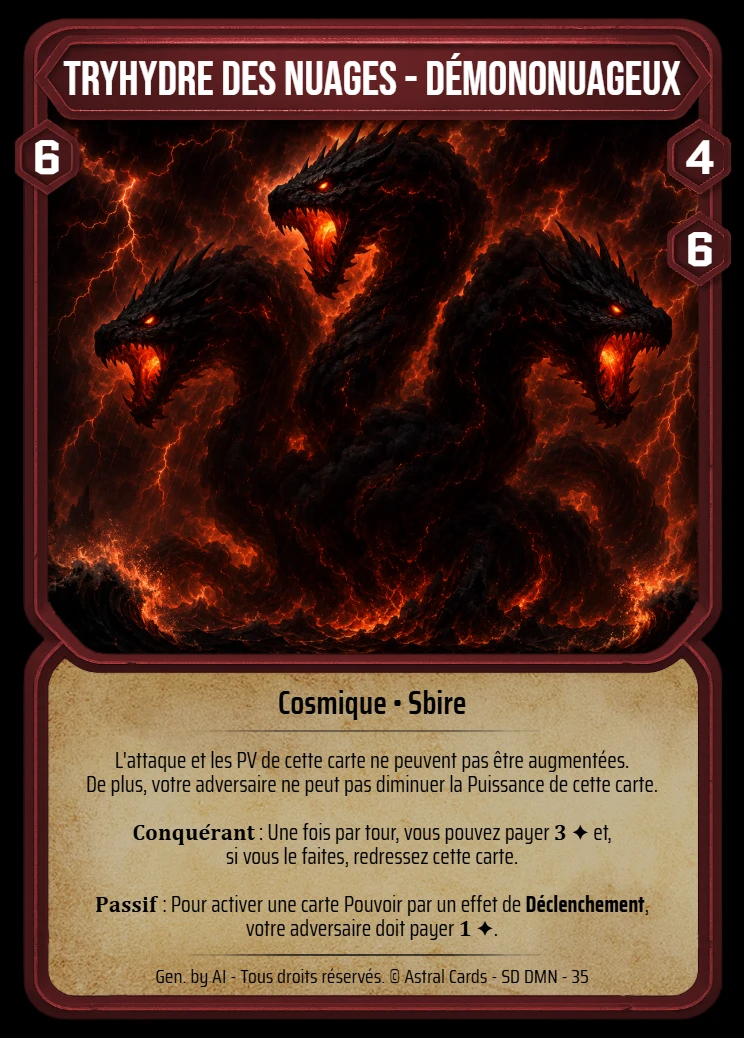
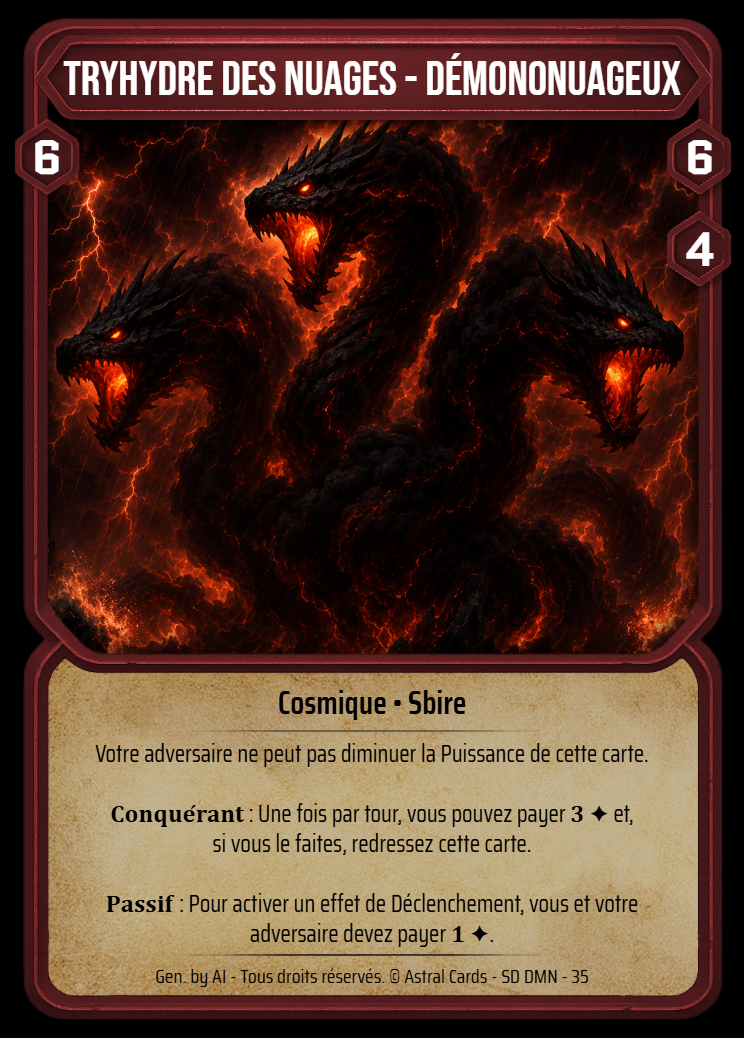
Update tutoriel 3

diff --git a/tutoriel-engine.js b/tutoriel-engine.js
@@ -6,7 +6,7 @@
     dragon:'Dragon brumeux', cyclone:'Le cyclone', storm:'Démon des tempêtes', eye:"L'oeil protecteur",
     hand:'La grande main', rox:'Roxxor', nav:'Zvatas forme 1', env:'Cataclysme des nuages',
     pillage:'Pillage bénéfique', urkan:'Urkan', vairon:'Vairon', sovereign:'Vairon souverrain',
-    assimilation:'Assimilation des Energies', env2:'Le domaine sauvage', larva:'La larve', wolf:"Wollfy de l'épée", swordEye:"L'oeil de l'épée", light:'La lumière après les nuages', dompteur:'Dompteur', elphoros:'Elphoros'
+    assimilation:'Assimilation des Energies', env2:'Le domaine sauvage', larva:'La larve', wolf:"Wollfy de l'épée", swordEye:"L'oeil de l'épée", light:'La lumière après les nuages', dompteur:'Dompteur', elphoros:'Elphoros', small:'Du plus petit au plus monstrueux', rakesh:"Ra'Kesh", immunity:"L'immunité bestiale", tryhydre:'Tryhydre'
   };
   const clone = value => JSON.parse(JSON.stringify(value));
   const player = () => ({energy:0,max:0,stars:0,actions:0,hand:[],zones:{},deck:false});
@@ -112,14 +112,14 @@
     // Situation de départ du chapitre 2.
     p(1).energy=2;p(1).max=2;p(1).stars=0;p(1).actions=0;p(1).deck=true;
     draw(1,[C.light,C.hand,C.dragon]);
-    put(1,6,C.nav,{hp:5,clouds:0});
+    put(1,6,C.nav,{power:1,hp:5,clouds:0});
     put(1,6,C.env,{back:true});
     // Le sommet de la pile est La larve afin que le clic sur la pile soit guidé sans afficher les zones techniques.
     put(1,1,C.wolf,{back:true,tapped:true});put(1,1,C.swordEye,{back:true,tapped:true});put(1,1,C.larva,{back:true,tapped:true});
-    put(1,7,C.sea,{tapped:true});
+    put(1,7,C.sea,{power:1,hp:1,tapped:true});
 
     p(2).energy=3;p(2).max=3;p(2).stars=0;p(2).actions=0;p(2).deck=true;
-    put(2,6,C.dompteur,{hp:5});
+    put(2,6,C.dompteur,{power:1,hp:5});
     put(2,2,C.env2,{tapped:true});
     put(2,5,C.elphoros,{hp:3,tapped:true});
 
@@ -132,15 +132,15 @@
     step('Votre Navigateur est révélé', 'Votre Environnement rejoint son emplacement dédié et votre Navigateur apparaît. En général, un Navigateur possède 1 point de Puissance, 5 PV et une seconde face destinée au mode Astral, que nous verrons plus tard.', {focus:C.nav},()=>{move(1,C.env,2,{tapped:true});const nav=find(1,C.nav);if(nav){nav.clouds=3;nav.hp=5;}});
     step('Ses compteurs', 'Lorsqu’il est révélé, placez 3 compteurs Nuage sur votre Navigateur. Son effet pourra en retirer un lorsqu’un Sbire Démononuageux est invoqué afin de le redresser immédiatement. Cet effet ne peut être utilisé qu’une fois par tour, et la carte ainsi redressée ne pourra plus être redressée par un autre effet ce tour-ci.', {focus:C.nav});
     step('Invoquez un Sbire', 'Cliquez sur le Sbire illuminé dans votre Main pour l’invoquer. Il utilise toute votre Energy disponible.', {target:{player:1,name:C.dragon,location:'hand'},action:'Invoquer le Sbire'});
-    step('Activez l’effet du Navigateur', 'Le Sbire arrive incliné sur votre Terrain. Cliquez maintenant sur votre Navigateur pour utiliser son effet.', {target:{player:1,name:C.nav,location:'board'},action:'Activer son effet'},()=>{move(1,C.dragon,8,{tapped:true,hp:3});p(1).energy=0;p(1).actions=1;});
+    step('Activez l’effet du Navigateur', 'Le Sbire arrive incliné sur votre Terrain. Cliquez maintenant sur votre Navigateur pour utiliser son effet.', {target:{player:1,name:C.nav,location:'board'},action:'Activer son effet'},()=>{move(1,C.dragon,8,{tapped:true,power:2,hp:5});p(1).energy=0;p(1).actions=1;});
     step('Effet résolu', 'Un compteur est retiré et le Sbire invoqué se redresse automatiquement. Il est désormais prêt au combat.', {},()=>{const nav=find(1,C.nav);if(nav)nav.clouds=2;const d=find(1,C.dragon);if(d)d.tapped=false;});
     step('L’effet de votre Environnement', 'Votre Environnement possède lui aussi un effet passif. Lorsqu’un de vos Sbires Démononuageux est redressé par un effet, vous pouvez augmenter ses PV de 1. S’il possède déjà 4 PV ou plus, vous pouvez lui donner 1 point de Puissance à la place.', {focus:C.env});
-    step('Un PV supplémentaire', 'Le Sbire que vous venez de redresser possède 3 PV. L’effet passif de votre Environnement s’applique : il gagne donc 1 PV et passe à 4 PV.', {focus:C.dragon},()=>{const d=find(1,C.dragon);if(d)d.hp=4;});
+    step('Choisissez le bonus du Dragon brumeux', 'Le Dragon brumeux possède 2 de Puissance et 5 PV de base. Comme il possède déjà 4 PV ou plus, Cataclysme des nuages vous laisse choisir : augmentez sa Puissance de 1 ou ses PV de 1.', {focus:C.dragon,statChoice:true});
     step('Attaques du Navigateur', 'Un Navigateur peut attaquer. S’il détruit un Sbire au combat, il génère 1 étoile, comme vos Sbires. Si le Terrain adverse est vide, il ne peut pas attaquer directement le Navigateur adverse ; il peut toutefois s’incliner pour générer 1 étoile.');
     step('Votre dernière action principale', 'Jouez la carte illuminée. Son effet va vous permettre d’invoquer une carte depuis votre Deck Spécial.', {target:{player:1,name:C.hand,location:'hand'},action:'Jouer la carte'});
     step('Choisissez dans votre Deck Spécial', 'Cliquez sur votre pile de cartes Spéciales illuminée pour voir les cartes disponibles.', {target:{player:1,name:C.larva,location:'board'},action:'Ouvrir le Deck Spécial'},()=>{remove(1,C.hand);p(1).actions=2;});
     step('Choisissez la carte à invoquer', 'Les cartes disponibles s’affichent. Cliquez sur la carte illuminée pour l’invoquer grâce à l’effet.', {target:{player:1,name:C.larva,location:'revealed'},action:'Invoquer cette carte',reveal:true},()=>{state.revealed=[C.larva,C.swordEye,C.wolf];});
-    step('Invocation spéciale', 'Un Sbire invoqué grâce à un effet est une invocation spéciale : vous ne payez pas son coût d’Energy et il arrive verticalement, prêt au combat, sauf si l’effet indique le contraire.', {},()=>{state.revealed=[];remove(1,C.larva);put(1,5,C.larva);});
+    step('Invocation spéciale', 'Un Sbire invoqué grâce à un effet est une invocation spéciale : vous ne payez pas son coût d’Energy et il arrive verticalement, prêt au combat, sauf si l’effet indique le contraire.', {},()=>{state.revealed=[];remove(1,C.larva);put(1,5,C.larva,{power:1,hp:2});});
     step('Passez à l’attaque', 'Commencez par attaquer le Sbire adverse avec votre premier attaquant. Cliquez sur votre carte illuminée.', {target:{player:1,name:C.dragon,location:'board'},action:'Attaquer'});
     step('Choisissez la cible', 'Votre attaquant est incliné. Cliquez maintenant sur le Sbire adverse pour le prendre pour cible.', {target:{player:2,name:C.elphoros,location:'board'},action:'Cibler le Sbire'},()=>{const d=find(1,C.dragon);if(d)d.tapped=true;});
     step('Dégâts infligés', 'Votre attaquant possède 2 de Puissance. Les dégâts sont soustraits aux PV : le Sbire adverse n’a plus qu’1 PV.', {},()=>{const e=find(2,C.elphoros);if(e)e.hp=1;});
@@ -153,8 +153,60 @@
     step('Chapitre 2 terminé', 'Bravo ! Vous savez maintenant exploiter l’effet de votre Navigateur, l’utiliser au combat et combiner ses possibilités avec vos invocations.', {complete:true});
     return steps;
   }
-  function build(chapter=1){ return Number(chapter)===2 ? buildChapter2() : buildChapter1(); }
-  const api={build,buildChapter1,buildChapter2,C};
+  function buildChapter3() {
+    let state = {turn:5,active:1,phase:'Phase de jeu',players:{1:player(),2:player()},revealed:[]};
+    const steps=[];
+    const p = n => state.players[n];
+    function put(n,z,name,options={}) { (p(n).zones[z] ||= []).push({name,back:false,tapped:false,...options}); }
+    function find(n,name){ for(const z of Object.values(p(n).zones)){const c=z.find(c=>c.name===name);if(c)return c;} return null; }
+    function remove(n,name) { const h=p(n).hand.indexOf(name); if(h>=0){p(n).hand.splice(h,1);return;} for(const z of Object.values(p(n).zones)){const i=z.findIndex(c=>c.name===name);if(i>=0){z.splice(i,1);return;}} }
+    function move(n,name,z,options={}) {remove(n,name);put(n,z,name,options);}
+    function step(title,text,opts={},change) {if(change)change();steps.push({title,text,...opts,state:clone(state)});}
+
+    p(1).energy=5;p(1).max=5;p(1).stars=2;p(1).actions=0;p(1).deck=true;
+    p(1).hand=[C.tryhydre,C.light,C.small,C.falco];
+    put(1,6,C.nav,{power:1,hp:5,clouds:3}); put(1,2,C.env); put(1,7,C.storm,{power:5,hp:5});
+    p(2).energy=5;p(2).max=5;p(2).stars=0;p(2).actions=0;p(2).deck=true;
+    put(2,6,C.dompteur,{power:1,hp:5}); put(2,2,C.env2,{tapped:true}); put(2,7,C.rakesh,{power:6,hp:6,tapped:true}); put(2,12,C.immunity,{back:true});
+
+    step('Chapitre 3 · Les Cartes Cosmiques','Les cartes Cosmiques sont des cartes semblables aux cartes de base. Lors de la Phase d’Ascension du tour 5, elles rejoignent votre Deck principal. Ici, une figure déjà dans votre Main : ce sera plus explicite pour le tutoriel.',{focus:C.tryhydre});
+    step('Une puissance encore hors de portée','La Tryhydre est une carte extrêmement puissante, mais elle coûte 6 Energy. Vous n’en possédez que 5. Heureusement, Astral Cards regorge de rebondissements !',{focus:C.tryhydre});
+    step('Jouez votre tour librement','Une fois les différentes phases terminées, vous pouvez organiser vos actions dans l’ordre qui vous semble le plus intéressant. Commençons par attaquer.');
+    step('Attaquez avec le Démon des tempêtes','Cliquez sur le Démon des tempêtes pour déclarer une attaque.',{target:{player:1,name:C.storm,location:'board'},action:'Attaquer'});
+    step('Choisissez votre cible','Votre Démon des tempêtes s’incline. Cliquez sur Ra’Kesh pour le prendre pour cible.',{target:{player:2,name:C.rakesh,location:'board'},action:"Cibler Ra'Kesh"},()=>{const c=find(1,C.storm);if(c)c.tapped=true;});
+    step('Revirement de situation !','Le Joueur 2 active sa carte face cachée : L’immunité bestiale. Son effet annule l’attaque.',{focus:C.immunity},()=>{const c=find(2,C.immunity);if(c)c.back=false;});
+    step('Déclenchement de Falco','Falco peut se déclencher depuis votre Main lorsqu’un adversaire active une carte Pouvoir. Son effet permet d’annuler cette activation.',{focus:C.falco});
+    step('Réagissez avec Falco','Cliquez sur Falco dans votre Main pour utiliser son Déclenchement.',{target:{player:1,name:C.falco,location:'hand'},action:'Activer Falco'});
+    step('Falco entre en résolution','Falco se place face recto sur votre Terrain. Les cartes Cosmiques restent sensibles aux mêmes règles et interactions que les cartes de base.',{},()=>move(1,C.falco,11));
+    step('L’attaque est sauvée','L’immunité bestiale est annulée et rejoint le Vortex adverse. Falco possède Néantin : après la résolution de son effet, il rejoint votre Néant. L’attaque du Démon des tempêtes peut donc continuer.',{},()=>{move(1,C.falco,3);move(2,C.immunity,9);});
+    step('Ra’Kesh encaisse les dégâts','Le Démon des tempêtes possède 5 de Puissance. Ra’Kesh avait 6 PV : il lui reste donc 1 PV.',{},()=>{const c=find(2,C.rakesh);if(c)c.hp=1;});
+    step('Terminons ce vilain Ra’Kesh !','Cliquez sur votre Navigateur pour attaquer.',{target:{player:1,name:C.nav,location:'board'},action:'Attaquer avec Zvatas'});
+    step('Ciblez Ra’Kesh','Votre Navigateur s’incline. Cliquez sur Ra’Kesh pour terminer le combat.',{target:{player:2,name:C.rakesh,location:'board'},action:"Cibler Ra'Kesh"},()=>{const c=find(1,C.nav);if(c)c.tapped=true;});
+    step('Ra’Kesh est détruit','Ra’Kesh rejoint le Vortex adverse. Votre Navigateur l’ayant détruit au combat, vous gagnez 1 étoile.',{},()=>{move(2,C.rakesh,9);p(1).stars=3;});
+    step('Du plus petit au plus monstrueux','Bien ! Maintenant, utilisons Du plus petit au plus monstrueux.',{focus:C.small});
+    step('Activez la carte Pouvoir','Cliquez sur Du plus petit au plus monstrueux dans votre Main.',{target:{player:1,name:C.small,location:'hand'},action:'Jouer la carte'});
+    step('Préparez l’invocation spéciale','La carte est jouée face recto dans votre zone de Pouvoir. Elle permet d’envoyer un Sbire Démononuageux de votre Terrain au Néant. Si vous le faites, vous pouvez invoquer depuis votre Main un Sbire Démononuageux dont le coût d’Energy est inférieur, égal ou supérieur de 1 à celui envoyé.',{focus:C.small},()=>{move(1,C.small,12);p(1).actions=1;});
+    step('Le calcul est parfait','Le Démon des tempêtes coûte 5 Energy et la Tryhydre en coûte 6. Envoyer le Démon des tempêtes au Néant vous permettra donc d’invoquer la Tryhydre.');
+    step('Envoyez le Démon des tempêtes au Néant','Cliquez sur le Démon des tempêtes.',{target:{player:1,name:C.storm,location:'board'},action:'Envoyer au Néant'});
+    step('Choisissez la Tryhydre','Le Démon des tempêtes rejoint votre Néant. Cliquez maintenant sur la Tryhydre dans votre Main.',{target:{player:1,name:C.tryhydre,location:'hand'},action:'Invoquer la Tryhydre'},()=>move(1,C.storm,3,{power:5,hp:5,tapped:true}));
+    step('Invocation spéciale réussie','La Tryhydre arrive face recto et verticalement sur votre Terrain, prête au combat. Son coût de 6 Energy n’a pas été payé : elle a été invoquée grâce à l’effet de votre carte Pouvoir.',{},()=>move(1,C.tryhydre,7,{power:4,hp:6}));
+    step('Bravo ! L’adversaire est dans la panade !','Cliquez sur la Tryhydre pour attaquer.',{target:{player:1,name:C.tryhydre,location:'board'},action:'Attaquer'});
+    step('Attaquez le Navigateur adverse','La Tryhydre s’incline. Cliquez sur le Dompteur.',{target:{player:2,name:C.dompteur,location:'board'},action:'Cibler le Dompteur'},()=>{const c=find(1,C.tryhydre);if(c)c.tapped=true;});
+    step('Le Dompteur est touché','Le Navigateur adverse perd 1 PV.',{},()=>{const c=find(2,C.dompteur);if(c)c.hp=4;});
+    step('Il vous reste encore une action','L’invocation spéciale de la Tryhydre grâce à votre carte Pouvoir ne compte pas comme une action principale supplémentaire. Vous n’avez activé qu’une seule carte : il vous reste donc encore une action principale.');
+    step('La lumière après les nuages','Cliquez sur La lumière après les nuages.',{target:{player:1,name:C.light,location:'hand'},action:'Jouer la carte'});
+    step('Un second souffle','Son effet permet de redresser un Sbire Démononuageux.',{focus:C.light},()=>{move(1,C.light,13);p(1).actions=2;});
+    step('Redressez la Tryhydre','Cliquez sur la Tryhydre pour la redresser.',{target:{player:1,name:C.tryhydre,location:'board'},action:'Redresser la Tryhydre'});
+    step('Cataclysme des nuages s’active !','La Tryhydre vient de se redresser. Comme elle possède 4 PV ou plus, votre Environnement s’active : choisissez d’augmenter sa Puissance de 1 ou ses PV de 1.',{focus:C.tryhydre,statChoice:true,statChoiceCard:C.tryhydre},()=>{const c=find(1,C.tryhydre);if(c)c.tapped=false;});
+    step('Prête à attaquer de nouveau','La Tryhydre se redresse verticalement et bénéficie du bonus que vous venez de choisir.',{},()=>{const c=find(1,C.tryhydre);if(c)c.tapped=false;});
+    step('Attaquez encore !','Cliquez sur la Tryhydre pour lancer une nouvelle attaque.',{target:{player:1,name:C.tryhydre,location:'board'},action:'Attaquer'});
+    step('Ciblez encore le Dompteur','La Tryhydre s’incline. Cliquez sur le Navigateur adverse.',{target:{player:2,name:C.dompteur,location:'board'},action:'Cibler le Dompteur'},()=>{const c=find(1,C.tryhydre);if(c)c.tapped=true;});
+    step('Une seconde blessure','Le Dompteur perd encore 1 PV.',{},()=>{const c=find(2,C.dompteur);if(c)c.hp=3;});
+    step('Chapitre 3 terminé','Gardez à l’esprit que vos cartes Cosmiques sont puissantes et généralement difficiles ou complexes à invoquer ou à jouer, mais qu’elles ont le même statut que les autres cartes. Un effet qui parle d’un Sbire concerne donc aussi un Sbire Cosmique.',{complete:true});
+    return steps;
+  }
+  function build(chapter=1){ chapter=Number(chapter); return chapter===3 ? buildChapter3() : chapter===2 ? buildChapter2() : buildChapter1(); }
+  const api={build,buildChapter1,buildChapter2,buildChapter3,C};
   if(typeof module!=='undefined' && module.exports) module.exports=api;
   else root.AstralTutorial=api;
 })(typeof window!=='undefined'?window:globalThis);

diff --git a/tutoriel.css b/tutoriel.css
@@ -47,3 +47,27 @@
 /* Sélecteur de chapitres */
 .tutorial-chapters{display:block;max-width:1150px;padding-top:38px}.chapter-heading{text-align:center;max-width:760px;margin:0 auto 34px}.chapter-heading h1{font-size:clamp(2.3rem,5vw,4rem);margin:8px 0 14px}.chapter-heading>p:last-child{color:#c4c4dc;line-height:1.7}.chapter-grid{display:grid;grid-template-columns:repeat(2,minmax(0,1fr));gap:28px}.chapter-tile{background:linear-gradient(180deg,#14132a,#0b0d1c);border:1px solid #ffffff18;border-radius:18px;padding:26px;text-align:center;box-shadow:0 16px 55px #0005}.chapter-tile h2{margin:6px 0 12px;color:#f6f1ff}.chapter-tile>p:not(.chapter-number){color:#bdbbd0;line-height:1.55;min-height:52px}.chapter-number{font-size:.8rem;letter-spacing:1.8px;color:#c9a6ff;font-weight:800;margin:10px 0 0}.chapter-art{height:300px;position:relative;display:grid;place-items:center;margin-bottom:8px}.chapter-character,.fan-back{position:absolute;height:260px;width:auto;aspect-ratio:744/1040;object-fit:cover;border-radius:14px;box-shadow:0 12px 35px #0008}.chapter-character{z-index:3;transform:translateX(-8px) rotate(-3deg)}.fan-back{z-index:1;transform:translateX(42px) rotate(13deg)}.fan-back.second{z-index:2;transform:translateX(22px) rotate(6deg)}.chapter-tile .t-primary{margin-top:12px}.card-badge{position:absolute;z-index:12;display:grid;place-items:center;min-width:25px;height:22px;padding:0 6px;border-radius:999px;font-weight:900;font-size:11px;border:1px solid #ffffff66;box-shadow:0 2px 8px #000a;pointer-events:none}.hp-badge{left:-7px;bottom:-8px;background:#691f32;color:#fff0f2}.cloud-badge{right:-8px;top:-9px;background:#184968;color:#e6f7ff}.opponent .card-badge{transform:rotate(180deg)}.revealed-card{padding:0;background:none;border:0;position:relative}.revealed-card img{width:100%;border-radius:7px;display:block}.revealed-card.target-card{outline:2px solid #ffdd89;outline-offset:3px;animation:tutorial-pulse 1.25s ease-in-out infinite;border-radius:7px}.revealed-cards{grid-template-columns:repeat(3,1fr)}
 @media(max-width:700px){.chapter-grid{grid-template-columns:1fr}.chapter-art{height:220px}.chapter-character,.fan-back{height:190px}.chapter-tile>p:not(.chapter-number){min-height:0}}
+
+/* Statistiques de combat visibles : Puissance (épée rouge) et PV (cœur vert). */
+.power-badge{right:-8px;bottom:-8px;background:#7a1f29;color:#ffe8eb}
+.hp-badge{left:-7px;bottom:-8px;background:#17643b;color:#eafff1}
+.stat-choice{display:flex;justify-content:center;gap:12px;flex-wrap:wrap;margin:0 auto 20px}
+.stat-choice button{border:1px solid #ffffff2e;border-radius:10px;padding:11px 16px;font-weight:800;cursor:pointer;color:white;background:#15182b;box-shadow:0 5px 18px #0005}
+.stat-choice .choice-power{border-color:#e45965;background:#421820}
+.stat-choice .choice-hp{border-color:#54c985;background:#123d28}
+.stat-choice button:hover{transform:translateY(-1px);filter:brightness(1.12)}
+
+/* Sélecteur orbital — 2026-09-15 */
+.tutorial-chapters{position:relative;max-width:none!important;width:100%;min-height:calc(100svh - var(--tutorial-header-height,99px));padding:22px 24px 28px!important;overflow:hidden;background:radial-gradient(circle at 50% 55%,#28154d 0,#0c1023 27%,#050816 64%)}
+.tutorial-chapters:before{content:"";position:absolute;inset:0;pointer-events:none;opacity:.5;background-image:radial-gradient(circle,#fff 0 1px,transparent 1.5px);background-size:67px 67px;mask-image:linear-gradient(to bottom,transparent,#000 25%,#000 80%,transparent)}
+.chapter-heading{position:relative;z-index:5;margin:0 auto 5px!important}.chapter-heading .kicker{margin:0;color:#c9a6ff;letter-spacing:3px;font-size:.72rem;font-weight:900}.chapter-heading h1{font-size:clamp(2rem,4vw,3.35rem)!important;margin:4px 0 4px!important}.chapter-heading>p:last-child{margin:0;color:#a9a8c1!important;font-size:.95rem}
+.chapter-orbit{--orbit-size:min(650px,72vh,88vw);position:relative;width:var(--orbit-size);height:var(--orbit-size);margin:-5px auto -55px;display:grid;place-items:center;isolation:isolate}
+.orbit-rings,.orbit-rings span{position:absolute;inset:50%;border-radius:50%;transform:translate(-50%,-50%);pointer-events:none}.orbit-rings{width:100%;height:100%;inset:0;transform:none}.orbit-rings:before{content:"";position:absolute;inset:8%;border-radius:50%;background:conic-gradient(from 210deg,transparent 0 12%,#bb8cff44 16%,transparent 20% 43%,#65cfff44 48%,transparent 53% 78%,#f1c56d33 84%,transparent 90%);filter:blur(10px);animation:orbit-spin 22s linear infinite}.orbit-rings span:nth-child(1){width:82%;height:82%;border:1px solid #b993ff38;box-shadow:inset 0 0 45px #a770ff0d,0 0 40px #6f48d215}.orbit-rings span:nth-child(2){width:66%;height:66%;border:1px dashed #ffffff16;animation:orbit-spin 34s linear infinite reverse}.orbit-rings span:nth-child(3){width:48%;height:48%;border:1px solid #77cfff18;box-shadow:0 0 80px #7d4bd12c}
+.chapter-preview{position:relative;z-index:3;width:62%;height:62%;border-radius:50%;display:flex;flex-direction:column;align-items:center;justify-content:center;text-align:center;background:radial-gradient(circle at 50% 42%,#251a43dd,#0a0d1fe8 68%);border:1px solid #c3a3ff2b;box-shadow:0 0 0 10px #ffffff02,0 25px 80px #0009,inset 0 0 60px #a86fff12;backdrop-filter:blur(8px)}
+.preview-glow{position:absolute;width:68%;aspect-ratio:1;border-radius:50%;top:2%;background:#9d6cff24;filter:blur(30px);animation:preview-breathe 4s ease-in-out infinite}.preview-cards{position:relative;width:130px;height:185px;margin-top:-38px;filter:drop-shadow(0 18px 24px #000a)}.preview-cards img{position:absolute;inset:0;width:100%;height:100%;object-fit:cover;border-radius:10px}.preview-back-a{transform:translateX(28px) rotate(12deg);opacity:.85}.preview-back-b{transform:translateX(14px) rotate(6deg);opacity:.92}.preview-front{z-index:3;transform:translateX(-8px) rotate(-3deg);transition:filter .25s}.preview-front.swap-in{animation:card-swap .38s cubic-bezier(.2,.8,.2,1)}
+.preview-copy{position:relative;z-index:4;width:86%;margin-top:8px}.preview-copy .chapter-number{margin:0 0 3px;font-size:.68rem;letter-spacing:2.4px;color:#d3b8ff}.preview-copy h2{margin:0 0 5px;font-size:clamp(1.1rem,2.1vw,1.55rem);color:#fff}.preview-copy>p:not(.chapter-number){margin:0 auto 10px;max-width:360px;color:#b8b7cc;font-size:.78rem;line-height:1.45}.chapter-launch{padding:9px 18px!important;border-radius:999px!important;min-width:140px;transition:transform .2s,box-shadow .2s}.chapter-launch:hover{transform:translateY(-2px) scale(1.03);box-shadow:0 7px 28px #a979e555}.chapter-launch i{font-style:normal;margin-left:9px;font-size:1.15em}
+.orbit-node{--r:44%;position:absolute;z-index:6;left:50%;top:50%;width:76px;height:76px;margin:-38px;border-radius:50%;border:1px solid #ffffff2a;background:linear-gradient(145deg,#1a1834,#0b0e1f);box-shadow:0 10px 25px #0008,0 0 0 6px #090b18;color:#ded7f4!important;transform:rotate(var(--angle)) translateX(calc(var(--orbit-size) * .43)) rotate(calc(-1 * var(--angle)));display:grid;place-content:center;gap:1px;transition:transform .28s cubic-bezier(.2,.8,.2,1),border-color .25s,box-shadow .25s,background .25s}.orbit-node b{font-size:1.12rem;line-height:1}.orbit-node span{font-size:.58rem;text-transform:uppercase;letter-spacing:.7px;opacity:.65}.orbit-node:hover,.orbit-node:focus-visible,.orbit-node.is-active{border-color:#d4b9ff;background:linear-gradient(145deg,#37215e,#15172d);box-shadow:0 12px 30px #0009,0 0 0 6px #0a0c19,0 0 32px #a96dff70;transform:rotate(var(--angle)) translateX(calc(var(--orbit-size) * .43)) rotate(calc(-1 * var(--angle))) scale(1.14)}.orbit-node.is-active:after{content:"";position:absolute;inset:-10px;border:1px solid #cba9ff55;border-radius:50%;animation:node-pulse 2s ease-out infinite}.orbit-hint{position:absolute;bottom:7%;z-index:5;color:#88859d;font-size:.61rem;letter-spacing:2px;font-weight:800}.orbit-hint span{color:#c3a0ff;margin:0 10px}
+@keyframes orbit-spin{to{transform:rotate(360deg)}}@keyframes preview-breathe{50%{transform:scale(1.1);opacity:.65}}@keyframes card-swap{0%{opacity:.15;transform:translateX(-24px) rotate(-9deg) scale(.9)}100%{opacity:1;transform:translateX(-8px) rotate(-3deg) scale(1)}}@keyframes node-pulse{0%{opacity:.8;transform:scale(.9)}100%{opacity:0;transform:scale(1.35)}}
+@media(max-height:760px) and (min-width:701px){.chapter-orbit{--orbit-size:min(570px,70vh,84vw);margin:-12px auto -65px}.preview-cards{width:105px;height:150px;margin-top:-24px}.chapter-heading h1{font-size:2rem!important}.chapter-heading>p:last-child{display:none}.preview-copy>p:not(.chapter-number){font-size:.7rem;margin-bottom:7px}.orbit-node{width:66px;height:66px;margin:-33px}}
+@media(max-width:700px){.tutorial-chapters{padding:24px 14px 32px!important;min-height:calc(100svh - 68px)}.chapter-heading{margin-bottom:18px!important}.chapter-heading h1{font-size:2rem!important}.chapter-heading>p:last-child{font-size:.85rem}.chapter-orbit{--orbit-size:min(510px,105vw);height:560px;margin:0 auto}.orbit-rings span:nth-child(1){width:92%;height:92%}.orbit-rings span:nth-child(2){width:76%;height:76%}.orbit-rings span:nth-child(3){width:58%;height:58%}.chapter-preview{width:72%;height:72%;max-width:360px;max-height:360px}.preview-cards{width:100px;height:142px;margin-top:-18px}.preview-copy{width:90%}.preview-copy>p:not(.chapter-number){font-size:.72rem}.orbit-node{width:64px;height:64px;margin:-32px;transform:rotate(var(--angle)) translateX(calc(var(--orbit-size) * .43)) rotate(calc(-1 * var(--angle)))}.orbit-node:hover,.orbit-node:focus-visible,.orbit-node.is-active{transform:rotate(var(--angle)) translateX(calc(var(--orbit-size) * .43)) rotate(calc(-1 * var(--angle))) scale(1.08)}.orbit-node span{display:none}.orbit-hint{bottom:3%}}
+@media(prefers-reduced-motion:reduce){.orbit-rings:before,.orbit-rings span,.preview-glow,.orbit-node.is-active:after{animation:none!important}}

diff --git a/tutoriel.js b/tutoriel.js
@@ -11,6 +11,7 @@
   function isTarget(n,name,location) {const t=current().target;return t?.player===n && t.name===name && t.location===location;}
   function next(origin) {if(current().requireDeck && origin!=='card')return;if(current().target && origin!=='card' && !current().complete)return;if(index<steps.length-1){index++;render(true);}}
   function addBadges(button,c,n){
+    if(Number.isFinite(c.power)){const badge=document.createElement('span');badge.className='card-badge power-badge';badge.textContent='⚔ '+c.power;badge.setAttribute('aria-label',c.power+' points de Puissance');button.append(badge);}
     if(Number.isFinite(c.hp)){const badge=document.createElement('span');badge.className='card-badge hp-badge';badge.textContent='♥ '+c.hp;badge.setAttribute('aria-label',c.hp+' points de vie');button.append(badge);}
     if(Number.isFinite(c.clouds)){const badge=document.createElement('span');badge.className='card-badge cloud-badge';badge.textContent='☁ '+c.clouds;badge.setAttribute('aria-label',c.clouds+' compteurs Nuage');button.append(badge);}
   }
@@ -32,14 +33,35 @@
     $('tutorial-title').textContent='Tutoriel '+chapter;$('step-counter').textContent=(index+1)+' / '+steps.length;$('tutorial-progress').max=steps.length-1;$('tutorial-progress').value=index;$('turn-label').textContent=s.turn?'Tour '+s.turn+' · '+(s.active===1?'À vous':'Joueur 2'):'Préparation';$('phase-label').textContent=s.phase;
     $('step-kind').textContent=st.complete?'Chapitre accompli':st.target?'À vous de jouer':s.active===2&&s.turn?'Observez et avancez à votre rythme':'Pas à pas';$('step-title').textContent=st.title;$('step-text').textContent=st.text;
     $('focus-wrap').hidden=!st.focus;if(st.focus){$('focus-image').src=source(st.focus);$('focus-image').alt=st.focus;$('focus-card').setAttribute('aria-label','Agrandir '+st.focus);}$('stat-legend').hidden=!st.stats;
-    $('revealed-cards').hidden=!st.reveal;$('revealed-cards').replaceChildren(...s.revealed.map(name=>cardButton(1,{name},'revealed')));
-    $('previous-step').disabled=index===0;$('next-step').disabled=Boolean(st.target)||Boolean(st.requireDeck);$('next-step').textContent=st.complete?'Retour aux chapitres':st.target?st.action:st.next||'Suivant';$('action-hint').hidden=!st.target;$('action-hint').textContent=st.requireDeck?'Cliquez sur votre Deck illuminé pour piocher.':'L’élément à utiliser est illuminé.';$('restart-tutorial').hidden=!st.complete;
+    $('stat-choice').hidden=!st.statChoice;$('revealed-cards').hidden=!st.reveal;$('revealed-cards').replaceChildren(...s.revealed.map(name=>cardButton(1,{name},'revealed')));
+    $('previous-step').disabled=index===0;$('next-step').disabled=Boolean(st.target)||Boolean(st.requireDeck)||Boolean(st.statChoice);$('next-step').textContent=st.complete?'Retour aux chapitres':st.target?st.action:st.next||'Suivant';$('action-hint').hidden=!st.target;$('action-hint').textContent=st.requireDeck?'Cliquez sur votre Deck illuminé pour piocher.':'L’élément à utiliser est illuminé.';$('restart-tutorial').hidden=!st.complete;
     document.querySelector('.guide-scroll').scrollTop=0;if(focus)$('step-title').focus({preventScroll:true});requestAnimationFrame(fitTable);
+  }
+
+  function applyStatChoice(kind){
+    if(!current().statChoice)return;
+    const cardName=current().statChoiceCard||'Dragon brumeux';
+    for(let i=index;i<steps.length;i++){
+      const zones=steps[i].state.players[1].zones;
+      for(const cards of Object.values(zones)){
+        const card=cards.find(c=>c.name===cardName);
+        if(card){
+          if(kind==='power') card.power=(Number.isFinite(card.power)?card.power:(cardName==='Tryhydre'?4:2))+1;
+          else card.hp=(Number.isFinite(card.hp)?card.hp:(cardName==='Tryhydre'?6:5))+1;
+        }
+      }
+    }
+    current().statChoice=false;
+    next();
   }
   function fitTable(){if(!started)return;const box=$('table-fit');const width=Math.max(0,Math.min(box.clientWidth,(box.clientHeight-11)*8/9));$('table-stack').style.width=width+'px';}
   function start(ch=chapter){chapter=Number(ch)||1;steps=AstralTutorial.build(chapter);index=0;started=true;$('tutorial-start').hidden=true;$('tutorial-game').hidden=false;render(true);window.scrollTo({top:0});}
-  function exit(){if(document.fullscreenElement)document.exitFullscreen?.();started=false;$('tutorial-game').hidden=true;$('tutorial-start').hidden=false;document.querySelector('.chapter-start[data-chapter="'+chapter+'"]').focus();}
-  document.querySelectorAll('.chapter-start').forEach(b=>b.addEventListener('click',()=>start(b.dataset.chapter)));$('restart-tutorial').onclick=()=>start(chapter);$('exit-tutorial').onclick=exit;$('next-step').onclick=()=>current().complete?exit():next();$('previous-step').onclick=()=>{if(index>0){index--;render(true);}};$('focus-card').onclick=()=>showCard(current().focus);$('close-card').onclick=()=>$('card-dialog').close();
+  function exit(){if(document.fullscreenElement)document.exitFullscreen?.();started=false;$('tutorial-game').hidden=true;$('tutorial-start').hidden=false;selectChapter(chapter);$('chapter-launch').focus();}
+  const chapterMeta={1:{title:'Vos premiers tours',text:'Découvrez la mise en place, l’Energy, les invocations, les réactions, le combat et les étoiles.',image:'tutoriel-assets/geckoto.webp',alt:'Geckoto'},2:{title:'Maîtriser son Navigateur',text:'Révélez votre Navigateur, utilisez son effet, invoquez par effet et apprenez à combattre avec lui.',image:'tutoriel-assets/zvatas-forme-1.webp',alt:'Zvatas'},3:{title:'Les Cartes Cosmiques',text:'Découvrez leur arrivée au tour 5, leurs interactions avec les cartes classiques et toute leur puissance.',image:'tutoriel-assets/tryhydre.webp',alt:'Tryhydre'}};
+  function selectChapter(n){n=Number(n)||1;chapter=n;const m=chapterMeta[n];document.querySelectorAll('.orbit-node').forEach(b=>b.classList.toggle('is-active',Number(b.dataset.selectChapter)===n));const img=$('chapter-preview-image');img.classList.remove('swap-in');void img.offsetWidth;img.src=m.image;img.alt=m.alt;img.classList.add('swap-in');$('chapter-preview-number').textContent='CHAPITRE '+String(n).padStart(2,'0');$('chapter-preview-title').textContent=m.title;$('chapter-preview-text').textContent=m.text;$('chapter-launch').dataset.chapter=n;}
+  document.querySelectorAll('.orbit-node').forEach(b=>{b.addEventListener('mouseenter',()=>selectChapter(b.dataset.selectChapter));b.addEventListener('focus',()=>selectChapter(b.dataset.selectChapter));b.addEventListener('click',()=>selectChapter(b.dataset.selectChapter));});
+  $('chapter-launch').addEventListener('click',()=>start($('chapter-launch').dataset.chapter));
+  $('choose-power').onclick=()=>applyStatChoice('power');$('choose-hp').onclick=()=>applyStatChoice('hp');$('restart-tutorial').onclick=()=>start(chapter);$('exit-tutorial').onclick=exit;$('next-step').onclick=()=>current().complete?exit():next();$('previous-step').onclick=()=>{if(index>0){index--;render(true);}};$('focus-card').onclick=()=>showCard(current().focus);$('close-card').onclick=()=>$('card-dialog').close();
   $('card-dialog').addEventListener('click',event=>{if(event.target===$('card-dialog')){const r=event.target.getBoundingClientRect();if(event.clientX<r.left||event.clientX>r.right||event.clientY<r.top||event.clientY>r.bottom)event.target.close();}});
   $('fullscreen').hidden=!document.fullscreenEnabled;$('fullscreen').onclick=async()=>{try{if(document.fullscreenElement)await document.exitFullscreen();else await $('tutorial-game').requestFullscreen();}catch{$('fullscreen').hidden=true;}};document.addEventListener('fullscreenchange',()=>{$('fullscreen').textContent=document.fullscreenElement?'Réduire':'Plein écran';fitTable();});new ResizeObserver(fitTable).observe($('table-fit'));new ResizeObserver(entries=>{document.documentElement.style.setProperty('--tutorial-header-height',entries[0].target.getBoundingClientRect().height+'px');fitTable();}).observe(document.querySelector('.site-header'));window.addEventListener('resize',fitTable);
 })();

diff --git a/tutoriel.html b/tutoriel.html
@@ -24,22 +24,32 @@
 <section id="tutorial-start" class="tutorial-start tutorial-chapters">
   <div class="chapter-heading">
     <p class="kicker">APPRENDRE À JOUER</p>
-    <h1>Tutoriel Astral Cards</h1>
-    <p>Choisissez un chapitre et avancez à votre rythme. Les éléments à cliquer s’illuminent en doré.</p>
+    <h1>Choisissez votre chapitre</h1>
+    <p>Faites tourner l’orbe et plongez directement dans la leçon de votre choix.</p>
   </div>
-  <div class="chapter-grid">
-    <article class="chapter-tile">
-      <div class="chapter-art"><img class="fan-back" src="tutoriel-assets/back.webp" alt=""><img class="fan-back second" src="tutoriel-assets/back.webp" alt=""><img class="chapter-character" src="tutoriel-assets/geckoto.webp" alt="Geckoto"></div>
-      <p class="chapter-number">CHAPITRE 1</p><h2>Vos premiers tours</h2>
-      <p>Découvrez la mise en place, l’Energy, les invocations, les réactions, le combat et les étoiles.</p>
-      <button type="button" class="t-primary chapter-start" data-chapter="1">Démarrer le chapitre 1</button>
+
+  <div class="chapter-orbit" aria-label="Sélection des chapitres">
+    <div class="orbit-rings" aria-hidden="true"><span></span><span></span><span></span></div>
+    <button type="button" class="orbit-node is-active" data-select-chapter="1" style="--angle:-128deg" aria-label="Afficher le chapitre 1"><b>01</b><span>Premiers tours</span></button>
+    <button type="button" class="orbit-node" data-select-chapter="2" style="--angle:-52deg" aria-label="Afficher le chapitre 2"><b>02</b><span>Navigateur</span></button>
+    <button type="button" class="orbit-node" data-select-chapter="3" style="--angle:0deg" aria-label="Afficher le chapitre 3"><b>03</b><span>Cosmiques</span></button>
+
+    <article class="chapter-preview" aria-live="polite">
+      <div class="preview-glow" aria-hidden="true"></div>
+      <div class="preview-cards" aria-hidden="true">
+        <img class="preview-back preview-back-a" src="tutoriel-assets/back.webp" alt="">
+        <img class="preview-back preview-back-b" src="tutoriel-assets/back.webp" alt="">
+        <img id="chapter-preview-image" class="preview-front" src="tutoriel-assets/geckoto.webp" alt="Geckoto">
+      </div>
+      <div class="preview-copy">
+        <p id="chapter-preview-number" class="chapter-number">CHAPITRE 01</p>
+        <h2 id="chapter-preview-title">Vos premiers tours</h2>
+        <p id="chapter-preview-text">Découvrez la mise en place, l’Energy, les invocations, les réactions, le combat et les étoiles.</p>
+        <button id="chapter-launch" type="button" class="t-primary chapter-launch" data-chapter="1"><span>Démarrer</span><i aria-hidden="true">→</i></button>
+      </div>
     </article>
-    <article class="chapter-tile">
-      <div class="chapter-art"><img class="fan-back" src="tutoriel-assets/back.webp" alt=""><img class="fan-back second" src="tutoriel-assets/back.webp" alt=""><img class="chapter-character" src="tutoriel-assets/zvatas-forme-1.webp" alt="Zvatas"></div>
-      <p class="chapter-number">CHAPITRE 2</p><h2>Maîtriser son Navigateur</h2>
-      <p>Révélez votre Navigateur, utilisez son effet, invoquez par effet et apprenez à combattre avec lui.</p>
-      <button type="button" class="t-primary chapter-start" data-chapter="2">Démarrer le chapitre 2</button>
-    </article>
+
+    <div class="orbit-hint" aria-hidden="true"><span>◀</span> SURVOLEZ UN CHAPITRE <span>▶</span></div>
   </div>
 </section>
 <section id="tutorial-game" class="tutorial-game" hidden aria-label="Tutoriel interactif">
@@ -56,7 +66,7 @@
    <progress id="tutorial-progress" max="1" value="0" aria-label="Progression du chapitre"></progress>
    <div class="guide-scroll">
     <div id="focus-wrap" class="focus-wrap" hidden><button type="button" id="focus-card" aria-label="Agrandir la carte"><img id="focus-image" alt=""></button><div id="stat-legend" class="stat-legend" hidden><span>↖ Energy : 1</span><span>↗ Puissance : 1 · PV : 1</span></div><span class="zoom-hint">Cliquez pour agrandir</span></div>
-    <div id="revealed-cards" class="revealed-cards" hidden aria-label="Les cinq cartes révélées"></div>
+    <div id="stat-choice" class="stat-choice" hidden><button type="button" id="choose-power" class="choice-power">⚔ +1 Puissance</button><button type="button" id="choose-hp" class="choice-hp">♥ +1 PV</button></div><div id="revealed-cards" class="revealed-cards" hidden aria-label="Les cinq cartes révélées"></div>
     <article aria-live="polite" aria-atomic="true"><p id="step-kind" class="step-kind"></p><h2 id="step-title" tabindex="-1"></h2><p id="step-text"></p></article>
    </div>
    <div class="guide-controls"><p id="action-hint" hidden>La carte à jouer est illuminée.</p><div class="step-buttons"><button type="button" id="previous-step" aria-label="Étape précédente">Précédent</button><button type="button" id="next-step" class="t-primary">Suivant</button></div><button type="button" id="restart-tutorial" hidden>Recommencer le chapitre</button></div>
@@ -66,5 +76,5 @@
 <noscript><p class="noscript">Activez JavaScript dans votre navigateur pour démarrer le tutoriel.</p></noscript>
 </main>
 <dialog id="card-dialog" class="card-dialog" aria-labelledby="dialog-title"><div class="dialog-top"><h2 id="dialog-title">Carte</h2><button type="button" id="close-card" aria-label="Fermer l’agrandissement">Fermer ×</button></div><img id="dialog-image" alt=""></dialog>
-<script src="script.js"></script><script src="tutoriel-cards.js?v=2"></script><script src="tutoriel-engine.js?v=20260913-2"></script><script src="tutoriel.js?v=2"></script>
+<script src="script.js"></script><script src="tutoriel-cards.js?v=3"></script><script src="tutoriel-engine.js?v=20260915-3"></script><script src="tutoriel.js?v=3"></script>
 </body></html>

diff --git a/tutoriel-cards.js b/tutoriel-cards.js
@@ -1,4 +1,12 @@
 const TUTORIAL_CARDS = {
+  "Du plus petit au plus monstrueux": {
+    "name": "Du plus petit au plus monstrueux",
+    "src": "tutoriel-assets/du-plus-petit-au-plus.png"
+  },
+  "Ra'Kesh": {
+    "name": "Ra'Kesh",
+    "src": "tutoriel-assets/ra-kesh.png"
+  },
   "La lumière après les nuages": {
     "name": "La lumière après les nuages",
     "src": "tutoriel-assets/la-lumiere-apres-les-nuages.png"
